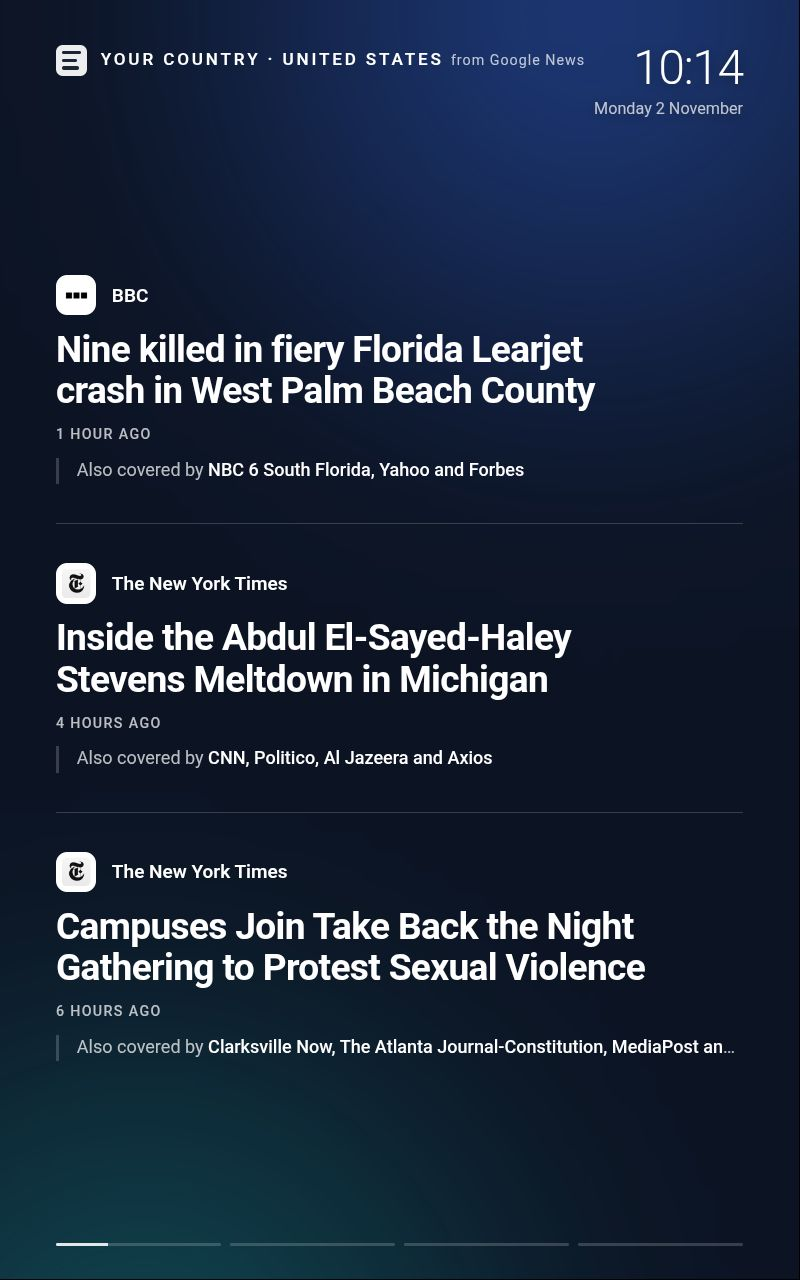
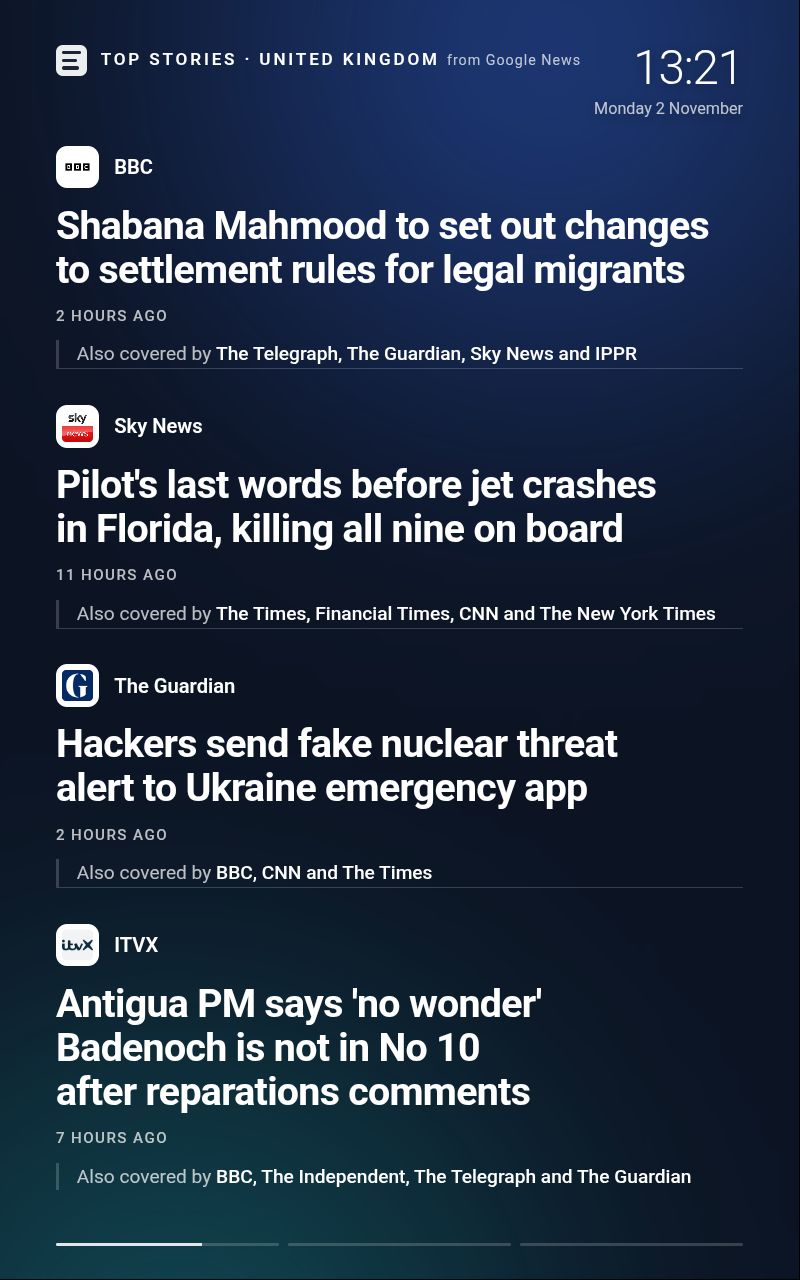
Update the README screenshots

Changed region(s): [[0.0625, 0.0938, 0.9062, 0.9375], [0.1562, 0.0312, 0.7188, 0.0625], [0.8125, 0.0312, 0.9375, 0.0625]]

diff --git a/README.md b/README.md
@@ -6,9 +6,9 @@ This plugin is not affiliated with, endorsed by or sponsored by Google. It reads
 
 ## Screenshots
 
-![A landscape screen showing four UK headlines from Google News in a two by two grid, each with its outlet's logo and the other outlets covering it](https://raw.githubusercontent.com/MozKaboom/google-news-screensaver/main/docs/screenshots/landscape.jpg)
+![A landscape screen showing three UK headlines from Google News side by side, each with its outlet's logo and the other outlets covering it](https://raw.githubusercontent.com/MozKaboom/google-news-screensaver/main/docs/screenshots/landscape.jpg)
 
-![A portrait screen showing three US headlines from Google News stacked, each with its outlet's logo and the other outlets covering it](https://raw.githubusercontent.com/MozKaboom/google-news-screensaver/main/docs/screenshots/portrait.jpg)
+![A portrait screen showing four UK headlines from Google News stacked, each with its outlet's logo and the other outlets covering it](https://raw.githubusercontent.com/MozKaboom/google-news-screensaver/main/docs/screenshots/portrait.jpg)
 
 ## Installation
 
